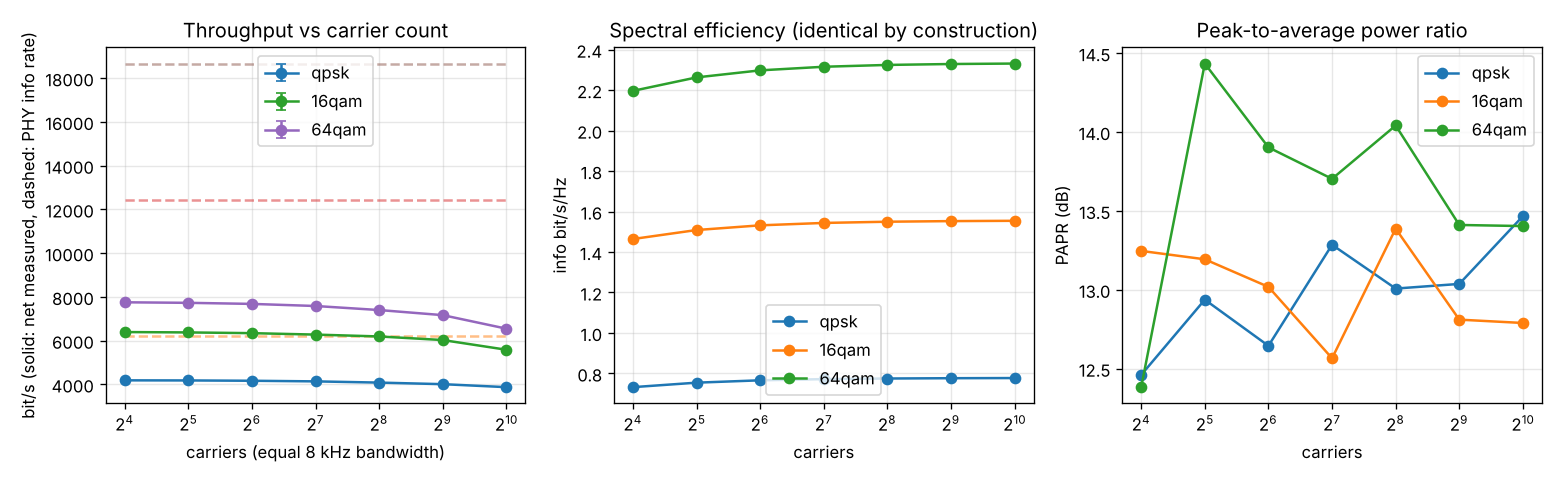
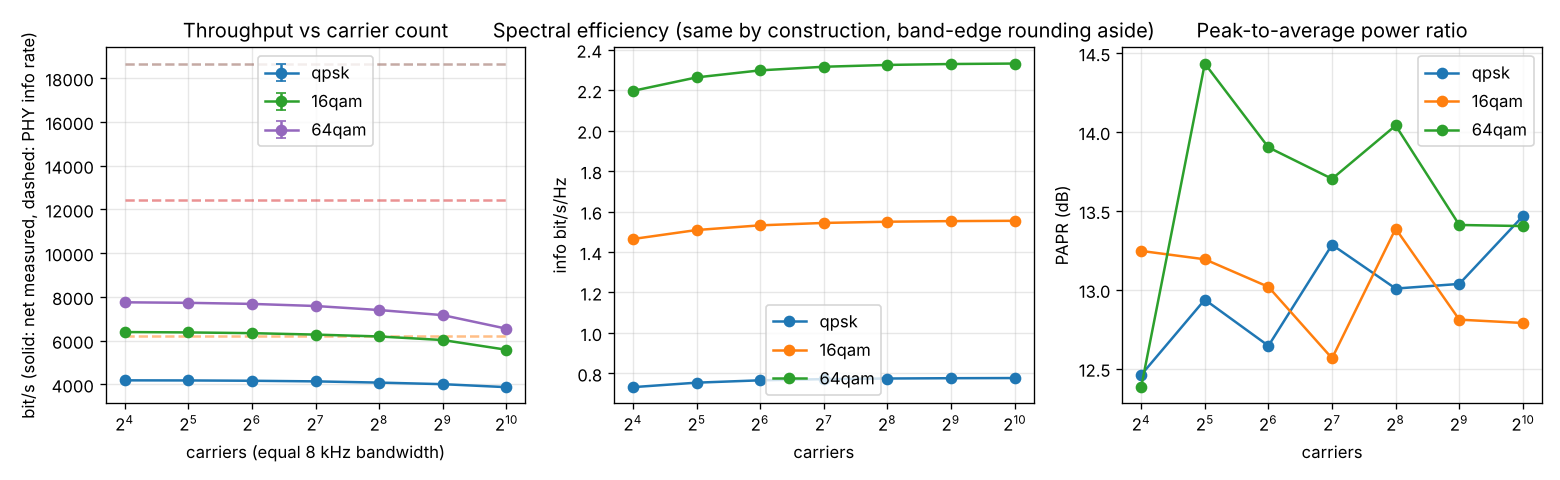
Fix editable install, add hardware test guide, correct adaptive summary
Claude-Session: https://claude.ai/code/session_01YXTgQhePZy5CE4j1VULm58

Changed region(s): [[0.3077, 0.0312, 0.7385, 0.0938]]

diff --git a/backend/sonic/benchmarking/plots.py b/backend/sonic/benchmarking/plots.py
@@ -88,7 +88,7 @@ def plot_carrier_density(res_dir: str, out_dir: str) -> list[str]:
     axes[0].set_title("Throughput vs carrier count")
     axes[1].set_xlabel("carriers")
     axes[1].set_ylabel("info bit/s/Hz")
-    axes[1].set_title("Spectral efficiency (identical by construction)")
+    axes[1].set_title("Spectral efficiency (same by construction, band-edge rounding aside)")
     axes[2].set_xlabel("carriers")
     axes[2].set_ylabel("PAPR (dB)")
     axes[2].set_title("Peak-to-average power ratio")

diff --git a/docs/hardware_testing.md b/docs/hardware_testing.md
@@ -1,0 +1,63 @@
+# Hardware validation procedure (unverified in this repository)
+
+The build environment used for this repository has no audio devices, so
+the speaker/microphone path is implemented but **not validated**. This is
+the procedure to validate it; please record results in
+`docs/research_log.md`.
+
+## Setup
+
+* Two machines (or one machine with a loopback-free speaker/mic pair), both
+  with `pip install -e "backend[all]"` and PortAudio installed.
+* Start at conservative volume: `sonic play --gain 0.3`. Never exceed
+  `--gain 1.0`; the CLI clips there and the dashboard volume defaults to 0.5.
+* Use 48 kHz on both ends (`sonic record --sample-rate 48000`).
+
+## Test 1 — Audio QR, 30–100 cm
+
+```bash
+# sender
+sonic qr encode --text "hardware test 1" -o qr.wav
+sonic play qr.wav --gain 0.4
+# receiver (start first; 6 s is enough for a short message)
+sonic record --seconds 6 -o rec.wav
+sonic qr decode --input rec.wav
+sonic analyze rec.wav        # sync score, SNR estimate, header
+```
+
+Expected: `sync score > 0.3`, payload EVM SNR > 8 dB, text recovered.
+Record: distance, gain, room, success, SNR estimate.
+
+## Test 2 — source file with each preset
+
+```bash
+sonic encode examples/hello.py -o robust.wav --preset robust
+sonic encode examples/hello.py -o default.wav --preset default
+sonic encode examples/hello.py -o fast.wav --preset fast
+```
+
+Play each; record with `--seconds 30`; `sonic decode rec.wav -o out.py`
+and `cmp examples/hello.py out.py`. Expect `robust` to work in most rooms,
+`default` in quiet rooms at < 2 m, `fast` only at short range with good
+speakers (it needs ≈ 21 dB in-band SNR and uses up to 14 kHz).
+
+## Test 3 — sample-rate mismatch
+
+Phones and laptops commonly differ by 20–150 ppm. Check
+`sonic decode --json d.json` → `diagnostics.payload_section.timing_drift_samples`
+(last value / payload duration in samples ≈ ppm) and whether
+`diagnostics.sro_compensation` was triggered.
+
+## Test 4 — near-ultrasonic (optional)
+
+`--preset ultrasonic` (17–21 kHz). Many speakers roll off above 16 kHz and
+some microphones apply low-pass filtering; failure here is a hardware
+limitation, not a decoder bug. Check the receiver's
+`payload_section.channel_magnitude_db` to see the actual response.
+
+## What to report
+
+For each run: preset, distance, gain, room description, `sync score`,
+`snr_evm_mean_db`, packets ok/total, success, and the estimated ppm.
+Attach the recording if it failed; `sonic analyze` output is enough for
+successes.

diff --git a/docs/research_log.md b/docs/research_log.md
@@ -84,15 +84,15 @@ QPSK 1/2, the best *uniform* modulation/rate the report supports
 (net successfully-delivered bit/s, 3 trials each, all CI95 = 0 because
 every trial decoded; `adaptive.json`.)
 
-**Conclusion:** adaptive loading wins on 5 of 6 frequency-selective
-channels (+6 % to +28 % over the best uniform choice, 2.2–3× over the
-naive default). On the flat channel the uniform baseline is *better* by
+**Conclusion:** adaptive loading wins on 4 of 6 channels (+2 % to +28 %
+over the best uniform choice, 2.2–3× over the naive default) and loses
+narrowly on two. On the flat channel the uniform baseline is better by
 6 %: the planner's 25th-percentile band SNR plus 1 dB margin picks rate 2/3
-where 3/4 would have worked. This is reported as-is; the margin is a
-tunable reliability/throughput knob. On the notched channel `fixed_best`
-succeeded with a 2.9 % raw BER, right at the FEC cliff, whereas adaptive
-delivered nearly the same rate at 0.19 % BER — the reliability gain does
-not show in throughput alone.
+where 3/4 would have worked. On the notched channel `fixed_best` is 2 %
+faster but succeeded with a 2.9 % raw BER, right at the FEC cliff, whereas
+adaptive delivered its rate at 0.19 % BER — the reliability gain does not
+show in throughput alone. Both are reported as-is; the margin is a tunable
+reliability/throughput knob.
 
 Feedback overhead is 9 bytes per report; the band plan itself costs
 nothing extra because the header already carries it.

diff --git a/README.md b/README.md
@@ -28,7 +28,7 @@ NumPy/SciPy and usable without the web interface.
 | 2. Overlapping carriers + FFT separation | 341 simultaneous carriers, 0 bit errors recovered from one symbol (`examples/demo_overlap.py`, Explorer page) |
 | 3. Audio QR | 60-char URL → 1.4 s of sound → decoded from file and through a synthetic noisy room |
 | 4. Density experiment | 16 … 1024 carriers at equal bandwidth: identical PHY rate by construction, net throughput 7.7 → 6.5 kbit/s (64-QAM) due to framing granularity — carrier count does **not** add capacity |
-| 5. Adaptive encoding | per-band bit loading beats the best uniform modulation on 5 of 6 frequency-selective synthetic channels (+6 … +28 %), loses by 6 % on a flat channel (reported as-is) |
+| 5. Adaptive encoding | per-band bit loading beats the best uniform modulation on 4 of 6 synthetic channels (+2 … +28 %, at 10× lower raw BER), loses by 6 % on a flat channel and 2 % on a notched one (reported as-is) |
 | Tests | 127 automated tests pass (`backend/tests`) |
 | Hardware | speaker/microphone paths implemented, **not verified** (no audio hardware in the build environment) |
 

diff --git a/backend/README.md b/backend/README.md
@@ -1,0 +1,11 @@
+# sonic-modem (backend)
+
+Python package for the Sonic OFDM acoustic data transmission engine.
+See the repository root `README.md` for the full project documentation.
+
+```bash
+pip install -e ".[all]"
+sonic encode input.py --output signal.wav
+sonic decode signal.wav --output recovered.py
+python -m pytest -q
+```
